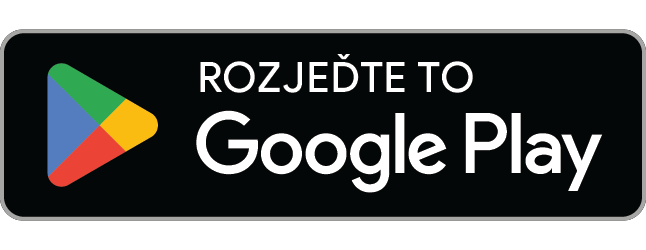
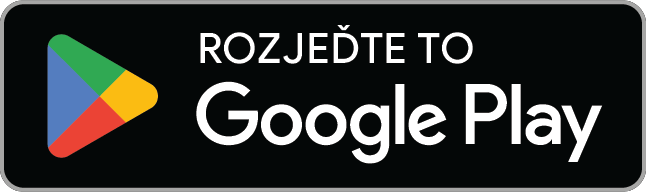
Odebrána záložka Rozpočet, srovnány odznaky obchodů, verze 1.0.1
Aplikace:
- spodní lišta má nově jen Přehled a Profil; záložka Rozpočet uživateli
  přišla zbytečná. Obrazovka Settle zůstává — vede na ni tlačítko
  „Rozpočet" v detailu skupiny
- protože se tam teď chodí ze skupiny, „zpět" ze Settle vrací do skupiny
  (dřív na Přehled) — jinak by uživatele vyhodilo ven; bez vybrané
  skupiny padáme na Přehled jako dřív
- odstraněna osiřelá ikona KcIcon
- verze 1.0.0 -> 1.0.1 pro další vydání do obchodů

Web:
- odznak Google Play vypadal menší než Apple. Google dodává PNG
  s 29px průhledným okrajem nahoře i dole, takže při stejné CSS výšce
  bylo vidět jen 77 % plochy. Okraj oříznut (646x250 -> 646x192),
  odstup mezi odznaky (14 px) plní požadavek na volný prostor

diff --git a/docs/index.html b/docs/index.html
@@ -390,7 +390,7 @@
             <img src="img/appstore-cs.svg" alt="Stáhnout v App Store" width="119" height="40" />
           </a>
           <a class="store-badge" id="playInvite" href="#" target="_blank" rel="noopener">
-            <img src="img/googleplay-cs.png" alt="Nyní na Google Play" width="646" height="250" />
+            <img src="img/googleplay-cs.png" alt="Nyní na Google Play" width="646" height="192" />
           </a>
         </div>
         <a id="webInvite" class="btn btn-block" href="#" target="_blank" rel="noopener">🌐 Otevřít webovou verzi</a>
@@ -438,7 +438,7 @@
               <img src="img/appstore-cs.svg" alt="Stáhnout v App Store" width="119" height="40" />
             </a>
             <a class="store-badge" id="playHero" href="#" target="_blank" rel="noopener">
-              <img src="img/googleplay-cs.png" alt="Nyní na Google Play" width="646" height="250" />
+              <img src="img/googleplay-cs.png" alt="Nyní na Google Play" width="646" height="192" />
             </a>
           </div>
           <p class="note">Zdarma. Bez reklam. Synchronizace v reálném čase.<br />
@@ -608,7 +608,7 @@
               <img src="img/appstore-cs.svg" alt="Stáhnout v App Store" width="119" height="40" />
             </a>
             <a class="store-badge" id="playFinal" href="#" target="_blank" rel="noopener">
-              <img src="img/googleplay-cs.png" alt="Nyní na Google Play" width="646" height="250" />
+              <img src="img/googleplay-cs.png" alt="Nyní na Google Play" width="646" height="192" />
             </a>
           </div>
           <p style="margin-top:18px;margin-bottom:0;font-size:14px;opacity:.6;font-weight:700">

diff --git a/src/Root.tsx b/src/Root.tsx
@@ -77,14 +77,6 @@ function GridIcon(color: string) {
   );
 }
 
-function KcIcon(color: string) {
-  return (
-    <View style={{ width: 18, height: 18, borderRadius: 9, borderWidth: 3, borderColor: color, alignItems: 'center', justifyContent: 'center' }}>
-      <Text style={{ fontFamily: FONTS.display700, fontSize: 8, color }}>Kč</Text>
-    </View>
-  );
-}
-
 function PersonIcon(color: string) {
   return (
     <View style={{ alignItems: 'center' }}>
@@ -160,8 +152,9 @@ export default function Root() {
         {showChrome && (
           <View style={{ backgroundColor: c.card, borderTopWidth: 3, borderTopColor: c.ink, paddingTop: 10, paddingBottom: 11 + insets.bottom }}>
             <View style={{ width: '100%', maxWidth: MAX_W, alignSelf: 'center', flexDirection: 'row', alignItems: 'center', justifyContent: 'space-around', paddingHorizontal: 6 }}>
+              {/* Rozpočet ze spodní lišty odebrán (2026-07-26) – obrazovka zůstává,
+                  vede na ni tlačítko „Rozpočet" v detailu skupiny. */}
               <NavItem label="Přehled" active={sc === 'overview'} color={sc === 'overview' ? c.accent : c.muted} icon={GridIcon} onPress={() => actions.navigate('overview')} />
-              <NavItem label="Rozpočet" active={sc === 'settle'} color={sc === 'settle' ? c.accent : c.muted} icon={KcIcon} onPress={() => actions.navigate('settle')} />
               <NavItem label="Profil" active={sc === 'profile'} color={sc === 'profile' ? c.accent : c.muted} icon={PersonIcon} onPress={() => actions.navigate('profile')} />
             </View>
           </View>

diff --git a/src/screens/Settle.tsx b/src/screens/Settle.tsx
@@ -16,7 +16,9 @@ export default function Settle() {
 
   return (
     <ScrollView contentContainerStyle={{ padding: 16, paddingBottom: 24 }}>
-      <Text onPress={() => actions.navigate('overview')} accessibilityRole="button" suppressHighlighting style={{ color: c.onbg, fontFamily: FONTS.body800, fontSize: 15, marginBottom: 10 }}>‹ Zpět</Text>
+      {/* Od odebrání záložky ze spodní lišty se sem chodí z detailu skupiny,
+          takže „zpět" vrací tam. Bez vybrané skupiny padáme na Přehled. */}
+      <Text onPress={() => actions.navigate(state.selectedGroup ? 'group' : 'overview')} accessibilityRole="button" suppressHighlighting style={{ color: c.onbg, fontFamily: FONTS.body800, fontSize: 15, marginBottom: 10 }}>‹ Zpět</Text>
       <Text style={{ fontFamily: FONTS.display700, fontSize: 26, color: c.onbg, letterSpacing: -0.5 }}>Rozpočet</Text>
       <Text style={{ fontFamily: FONTS.body800, fontSize: 14, color: c.onbg, opacity: 0.8, marginBottom: 18 }}>
         {hasAny(owe) ? 'Dlužíš celkem ' + fmtMoneyMap(owe) : 'Hotovo! Jsi vyrovnaný.'}

diff --git a/src/store.tsx b/src/store.tsx
@@ -264,7 +264,7 @@ export function AppProvider({ children }: { children: ReactNode }) {
       smlouva: 'settle',
       add: stateRef.current.editingExpenseId ? 'expense' : 'group',
       expense: 'group',
-      settle: 'overview',
+      settle: stateRef.current.selectedGroup ? 'group' : 'overview',
       choose_identity: 'overview',
       profile: 'overview',
       privacy: 'profile',

diff --git a/AGENTS.md b/AGENTS.md
@@ -22,7 +22,7 @@ na **„Dotačníček"** (2026-07, doména dotacnik.cz byla zabraná).
 - `src/components/ui.js` – `Pushable` (tlačítko s tvrdým stínem), `Avatar`, `Label`, `useColors`. **Gotcha:** `Pushable offset={0}` nekreslí stín (jinak prosvítá pod průhledným tlačítkem).
 - `src/components/Mascot.js` – maskot (karikatura), `Overlays.js` (mince/toast), `Field.js` (input).
 - `src/screens/` – AuthScreens (Onboarding/Login/Register), Overview, CreateGroup, ShareGroup, GroupDetail, AddExpense, ExpenseDetail, Settle, Profile, Privacy (in-app zásady).
-- Spodní lišta: **Přehled · Rozpočet · Profil** (3 záložky, bez plovoucího +). „Rozpočet" = obrazovka Settle (souhrn dluhů napříč skupinami; dřív „Deficit"). Výdaj se přidává tlačítkem v GroupDetail.
+- Spodní lišta: **Přehled · Profil** (2 záložky, bez plovoucího +). Záložka „Rozpočet" ODEBRÁNA 2026-07-26 (uživateli přišla zbytečná) — obrazovka Settle zůstává, jde na ni tlačítko „Rozpočet" v GroupDetail a „zpět" z ní vede na skupinu (dřív na Přehled). Settle = souhrn dluhů napříč skupinami (dřív „Deficit"). Výdaj se přidává tlačítkem v GroupDetail.
 - Systémové „zpět" (hw tlačítko i gesto) řeší `actions.goBack` přes `BackHandler` ve `store.js` (mapa screen→rodič; na overview/onboarding vrací false = zavře appku).
 - `src/supabase.js` – klient (klíče z `app.json` → extra). `src/api/{auth,groups,expenses,storage}.js` – datová vrstva.
 
